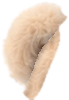
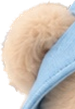
Кухня: уши из цельной картинки с куском капюшона, без подложек; ножки выше
Заказчик 23.09: подложка с прямым срезом при сгибе уха выглядывала
«треугольником»; ножки не были подняты впритык к скатерти.

- Спрайт уха режется из цельного мишки GPT вместе с прилегающим
  капюшоном: капюшон в нём накрыт головой, шов между ухом и капюшоном как
  в исходнике, где его нет. Подложки и копии убраны.
- Ножки подняты на 0.012 против нарезки: подушка заходит под скатерть
  на 10 px кадра.

Claude-Session: https://claude.ai/code/session_01EkUPogq5Va4qQG792fJCS6

diff --git a/lib/widgets/kitchen_scene.dart b/lib/widgets/kitchen_scene.dart
@@ -52,18 +52,19 @@ class KitchenScene extends StatefulWidget {
 
   // --- Где лежит каждая часть — в долях кадра комнаты 941 × 1672. -------
   // Числа печатает tool/cut_kitchen_parts.py: он же режет файлы.
-  // Ножки подняты на 0.008 против нарезки: круглый верх в упор к низу
-  // скатерти (0.760), иначе висят, «как будто ни к чему не привязаны»
+  // Ножки подняты на 0.012 против нарезки: круглая подушка заходит под
+  // скатерть (низ скатерти 0.760) на 10 px кадра, иначе висят, «как
+  // будто ни к чему не привязаны», а при качании у скатерти проблески
   // (заказчик 23.09). Припуск сверху уходит под слой стола.
   static const Rect footLeft = Rect.fromLTWH(
     0.361111,
-    0.743953,
+    0.739953,
     0.115741,
     0.050781,
   );
   static const Rect footRight = Rect.fromLTWH(
     0.503472,
-    0.743953,
+    0.739953,
     0.116898,
     0.052083,
   );
@@ -197,8 +198,6 @@ class KitchenScene extends StatefulWidget {
     '$_dir/foot_right.png',
     '$_dir/ear_left.png',
     '$_dir/ear_right.png',
-    '$_dir/ear_left_back.png',
-    '$_dir/ear_right_back.png',
     '$_dir/paw_left.png',
     '$_dir/paw_right.png',
     '$_dir/sleeve_left.png',
@@ -1067,30 +1066,12 @@ class _KitchenSceneState extends State<KitchenScene>
             fit: StackFit.expand,
             children: [
               // Уши внутри головы: наклонилась голова — уехали и уши.
-              // Лежат под капюшоном, сзади — стена. Подложка — рамка уха
-              // из цельного мишки GPT (там ухо к капюшону вплотную, у
-              // вырезанных спрайтов по шву просвечивала стена), только
-              // половина со стороны капюшона: целая копия читалась вторым
-              // ухом со стороны стены. Заказчик 23.09: «сделать подложки,
-              // не цельное ухо». Режет tool/cut_kitchen_backings.py.
-              _inHead(
-                width,
-                height,
-                KitchenScene.earLeft,
-                ClipRect(
-                  clipper: const _HalfClipper(keepRight: true, fraction: 0.6),
-                  child: _image('ear_left_back'),
-                ),
-              ),
-              _inHead(
-                width,
-                height,
-                KitchenScene.earRight,
-                ClipRect(
-                  clipper: const _HalfClipper(keepRight: false, fraction: 0.6),
-                  child: _image('ear_right_back'),
-                ),
-              ),
+              // Лежат под головой, сзади — стена. Спрайт уха вырезан из
+              // цельного мишки GPT вместе с куском капюшона
+              // (tool/cut_kitchen_backings.py): капюшон в нём накрыт
+              // капюшоном головы, а шва между ухом и капюшоном нет, как
+              // в исходнике. Копии и подложки не нужны: с прямым срезом
+              // они выглядывали при сгибе (заказчик 23.09).
               _inHead(
                 width,
                 height,

diff --git a/tool/cut_kitchen_backings.py b/tool/cut_kitchen_backings.py
@@ -1,13 +1,13 @@
-"""Подложки под уши кухни — из цельного мишки GPT.
+"""Уши кухни — из цельного мишки GPT, вместе с куском капюшона.
 
-Заказчик 23.09: «уши не прилегают к капюшону… сделать подложки, не
-цельное ухо, а именно подложки». У вырезанных спрайтов край уха и край
-капюшона не сходятся точка в точку, и по шву просвечивает стена. В
-цельной картинке шага 1 (`tool/kitchen_gpt_originals/bear_whole_941.png`,
-кадр 941 × 1672) шва нет: оттуда и берётся рамка каждого уха целиком —
-мех уха вместе с прилегающим капюшоном. В сцене подложка лежит под ухом
-и под головой и обрезана до половины со стороны капюшона (`_HalfClipper`),
-чтобы со стороны стены не читалось второе ухо.
+Заказчик 23.09: «уши не прилегают к капюшону». У вырезанных GPT спрайтов
+край уха и край капюшона не сходятся точка в точку, и по шву просвечивала
+стена; подложка с прямым срезом при сгибе уха выглядывала «треугольником».
+Поэтому ухо режется из цельной картинки шага 1
+(`tool/kitchen_gpt_originals/bear_whole_941.png`, кадр 941 × 1672) рамкой
+целиком: мех уха плюс прилегающий капюшон. В сцене ухо лежит под головой,
+и капюшон в спрайте накрыт капюшоном головы — видна только сама подушка
+уха, а шов на месте исходника, где его нет. Ни копий, ни подложек.
 
     python3 tool/cut_kitchen_backings.py
 """
@@ -21,8 +21,8 @@ OUT = ROOT / 'assets/rooms/kitchen'
 
 # Рамки ушей в долях кадра — те же, что в kitchen_scene.dart.
 EARS = {
-    'ear_left_back': (0.348380, 0.444010, 0.079861, 0.065104),
-    'ear_right_back': (0.567130, 0.445312, 0.079861, 0.063802),
+    'ear_left': (0.348380, 0.444010, 0.079861, 0.065104),
+    'ear_right': (0.567130, 0.445312, 0.079861, 0.063802),
 }
 
 

diff --git a/tool/fix_kitchen_sprites.py b/tool/fix_kitchen_sprites.py
@@ -10,7 +10,7 @@
 2. из тех же дуг, перевёрнутых, делает глаза-улыбку — `eyes_happy.png`;
 3. смягчает край спрайтов с мехом (`eyes_open.png`, `mouth_neutral.png`):
    жёсткий срез читался кольцом вокруг бусин и носа;
-4. убирает светлую кайму с ушей.
+4. (уши режет `tool/cut_kitchen_backings.py` из цельной картинки).
 
 Исходники GPT сохраняются один раз в `tool/kitchen_gpt_originals/` (не в
 ассеты — иначе попадут в сборку).
@@ -164,8 +164,6 @@ def main():
         'eyes_happy.png': happy,
         'eyes_open.png': feather(K / 'eyes_open.png', 7),
         'mouth_neutral.png': feather(K / 'mouth_neutral.png', 5),
-        'ear_left.png': defringe(K / 'ear_left.png'),
-        'ear_right.png': defringe(K / 'ear_right.png'),
     }
     if not preview:
         for name, im in outputs.items():

diff --git a/docs/living-scene.md b/docs/living-scene.md
@@ -225,14 +225,14 @@ ChatGPT по PDF-заданию с обмерами, по одному шагу 
 рад за 900 мс в трети кругов. Уши — раз в 3.5–9.5 с, сгиб вершины 0.18
 рад: вверх 180 мс `easeOutSine`, вниз 420 (23.09: «более плавные
 движения ушами»). Уши лежат **под** головой, голова под ними целая,
-сзади — стена комнаты без мишки. **Подложка** под ухом и под головой —
-рамка уха из цельного мишки GPT (`tool/kitchen_gpt_originals/
-bear_whole_941.png`, режет `tool/cut_kitchen_backings.py` →
-`ear_*_back.png`): у вырезанных спрайтов край уха и край капюшона не
-сходятся, по шву просвечивала стена, а в цельной картинке шва нет.
-Подложка обрезана до 60 % со стороны капюшона (`_HalfClipper`): ухо при
-сгибе не отходит от капюшона, а целая копия читалась вторым ухом со
-стороны стены (23.09: «не цельное ухо, а именно подложки»).
+сзади — стена комнаты без мишки. **Спрайт уха режется из цельного
+мишки GPT вместе с куском капюшона** (`tool/kitchen_gpt_originals/
+bear_whole_941.png`, `tool/cut_kitchen_backings.py`): у вырезанных GPT
+спрайтов край уха и край капюшона не сходились, по шву просвечивала
+стена, а подложка с прямым срезом при сгибе выглядывала «треугольником»
+(23.09). Капюшон в спрайте уха накрыт капюшоном головы, видна только
+подушка, шов — как в исходнике, где его нет. Копий и подложек под ушами
+нет. Проверка: сборка голова + уши против цельной картинки наложением.
 
 **Спрайты лица — в стиле спальни** (`tool/fix_kitchen_sprites.py`,
 исходники GPT в `tool/kitchen_gpt_originals/`): закрытые глаза — вышитые дуги с
@@ -242,10 +242,10 @@ bear_whole_941.png`, режет `tool/cut_kitchen_backings.py` →
 жёсткий срез читался кольцом вокруг бусин и носа; у ушей снята светлая
 кайма. Лапы (`tool/trim_kitchen_paws.py`): с кромки убраны пиксели
 скатерти и рукава — при движении они накрывали настоящую скатерть.
-Ножки подняты на 0.008 против нарезки, круглый верх в упор к низу
-скатерти (0.760; слой стола до 0.763); под каждой — её же неподвижные
-верхние 45 % (`_TopClipper`), чтобы при качании у скатерти не
-открывались углы.
+Ножки подняты на 0.012 против нарезки: круглая подушка заходит под
+скатерть на 10 px кадра (низ скатерти 0.760, слой стола до 0.763); под
+каждой — её же неподвижные верхние 45 % (`_TopClipper`), чтобы при
+качании у скатерти не открывались углы.
 
 **Покадровая проверка**: сборка с `--dart-define=SLOW_MOTION=8` идёт в
 восемь раз медленнее (`timeDilation`, паузы сценариев тоже), кадр раз в
